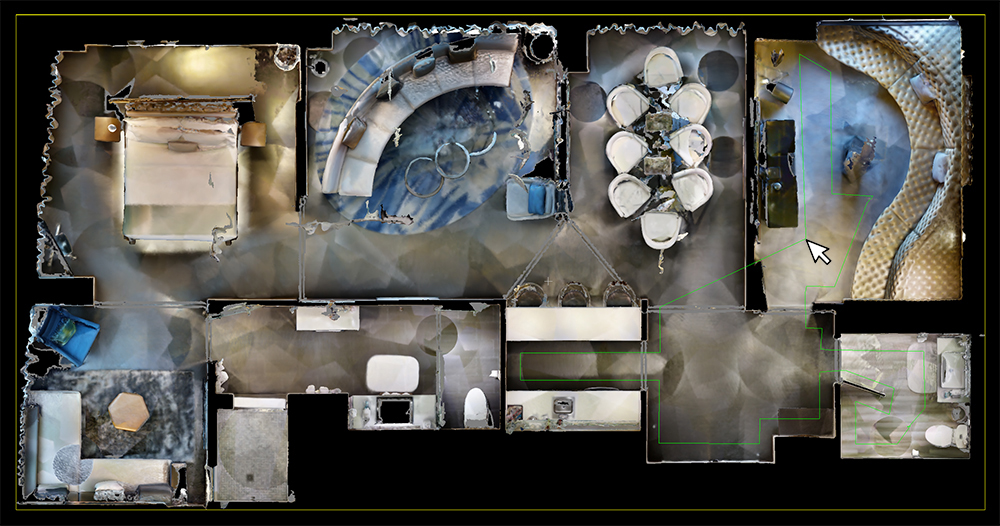
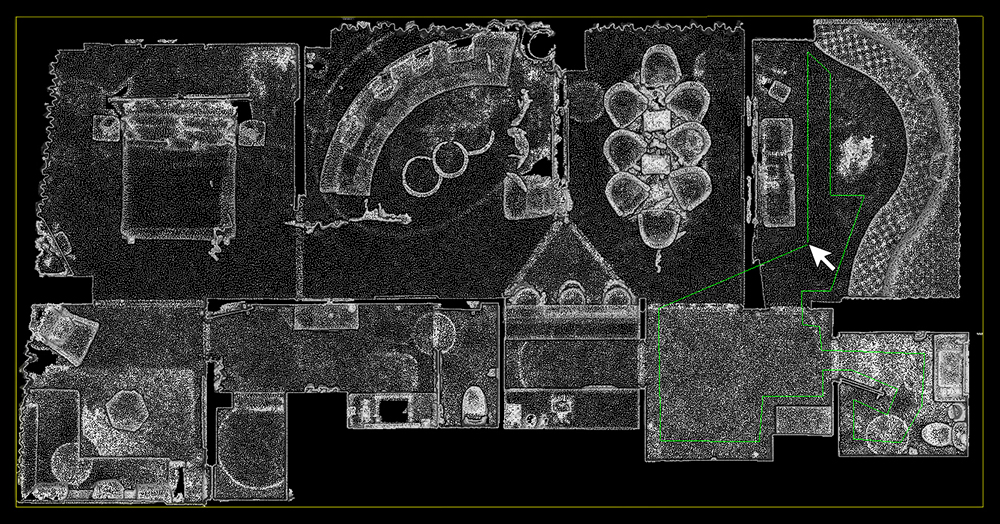
update readme

diff --git a/README.md b/README.md
@@ -1,6 +1,6 @@
 ## Repository Setup
 
-The repository provides a navigation system for the CMU Vision-Language-Autonomy Challenge. The system is integrated with [Matterport3D](https://niessner.github.io/Matterport) photorealistic environment models and [AI Habitat](https://github.com/facebookresearch/habitat-sim) engine. The repository has been tested in Ubuntu 20.04 with [ROS Noetic](http://wiki.ros.org/noetic/Installation). Install dependencies with the command lines below.
+The repository provides the base navigation system for the CMU Vision-Language-Autonomy Challenge. The system is integrated with [Matterport3D](https://niessner.github.io/Matterport) photorealistic environment models and [AI Habitat](https://github.com/facebookresearch/habitat-sim) engine. The repository has been tested in Ubuntu 20.04 with [ROS Noetic](http://wiki.ros.org/noetic/Installation). Install dependencies with the command lines below.
 ```
 sudo apt update
 sudo apt install libusb-dev
@@ -46,7 +46,13 @@ Use 'Tools/Point picking' to choose the vehicle start point. You can use these v
   <img src="img/start_point.jpg" alt="Start Point" width="70%"/>
 </p>
 
-Also in CloudCompare, use 'Edit->Segment' to extract the region that you want the vehicle to traverse.
+To select the traversable area for navigation, we need to only load the x, y, z fields of the map.ply file to CloudCompare.
+
+<p align="center">
+  <img src="img/map_loading.jpg" alt="Map Loading" width="35%"/>
+</p>
+
+Use 'Edit->Segment' to extract the region that you want the vehicle to traverse.
 
 <p align="center">
   <img src="img/trav_area_selection.jpg" alt="Traversable Area Selection" width="70%"/>
@@ -58,7 +64,7 @@ Save the extracted point cloud to a traversable_area.ply file and copy it to the
   <img src="img/trav_area_saved.jpg" alt="Traversable Area Saved" width="70%"/>
 </p>
 
-Prepared environment model files should look like this,
+Prepared environment model files should look like below,
 
 mesh/<br>
 &nbsp;&nbsp;&nbsp;&nbsp;matterport/<br>
@@ -86,14 +92,14 @@ In a terminal, go to the 'cmu_vla_challange_matterport' folder and bring up the 
 If the system is set up correctly, users should see data showing up in RVIZ and users can use the 'waypoint_with_heading' button to navigate the vehicle. Press the right button on the mouse to set the waypoint, then move the mouse to give the orientation before releasing the right button. The vehicle will navigate to the waypoint and turn to the orientation while avoiding collisions on the way. Note that the waypoints are meant to be close to the vehicle. Setting the waypoint too far can cause the vehicle to stuck at a dead end.
 
 <p align="center">
-  <img src="img/rviz_full.jpg" alt="RVIZ Full" width="70%"/>
+  <img src="img/rviz_full.jpg" alt="RVIZ Full" width="80%"/>
 </p>
 
 Users can also use the control panel to navigate the vehicle by clicking the in the black box. The system will switch to *smart joystick* mode - the vehicle tries to follow the joystick command and avoid collisions at the same time. To resume waypoint navigation, press the 'Resume Navigation to Goal' button. Note that users can use a PS3/4 or Xbox controller with a USB or Bluetooth interface instead of the virtual joystick (If using the Xbox Wireless USB Adapter, please install [xow](https://github.com/medusalix/xow)). Users can use the right joystick on the controller to navigate the vehicle. Pushing the right joystick to the front and back drives the vehicle around and pushing the right joystick to the left and right makes rotations. Holding the obstacle-check button cancels obstacle checking and clicking the clear-terrain-map button reinitializes the terrain map. To resume autonomous navigation, hold the mode-switch button and at the same time push the right joystick. The right joystick gives the speed. If only holding the mode-switch button, the system will use the default speed.
 
 <p align="center">
   <img src="img/rviz_control_panel.jpg" alt="RVIZ Control Panel" width="30%"/>
-  &nbsp;&nbsp;&nbsp;
+  &nbsp;&nbsp;&nbsp;&nbsp;
   <img src="img/ps3_controller.jpg" alt="PS3 Controller" width="45%"/>
 </p>
 
